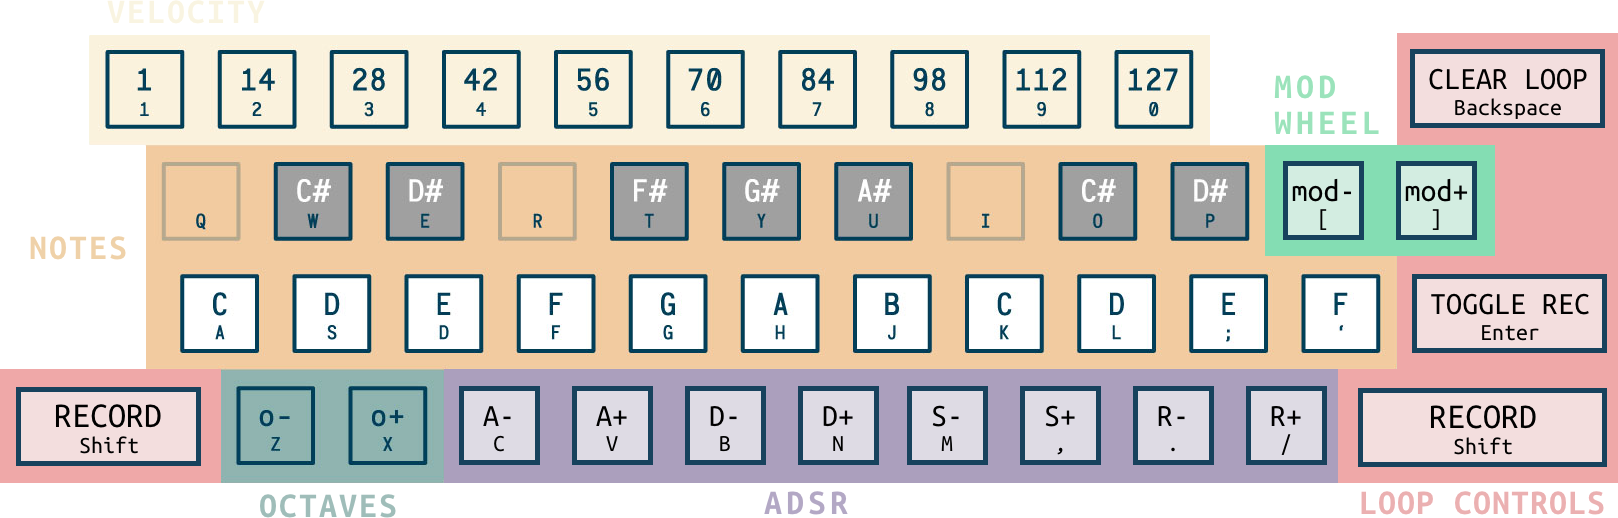
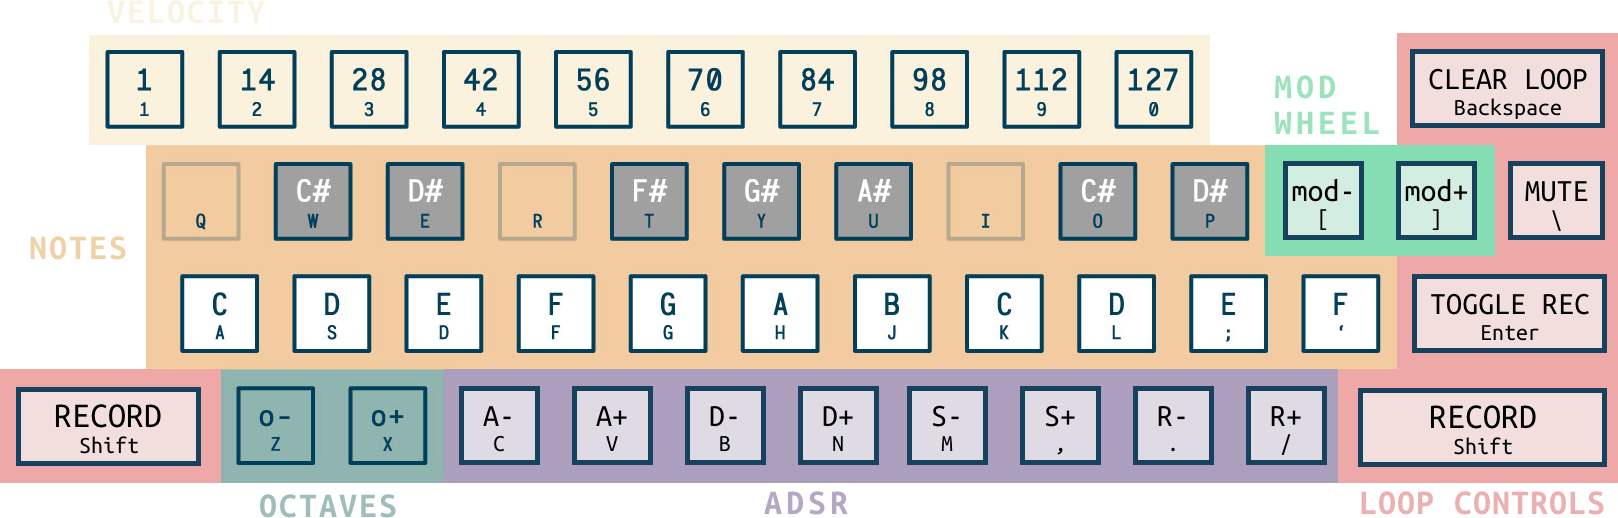
Add key and MIDI binding for record-lock: press <Enter> to toggle recording

Changed region(s): [[0.9271, 0.3089, 1.0, 0.4633]]

diff --git a/client-web/src/app/SketchInputs.ts b/client-web/src/app/SketchInputs.ts
@@ -4,6 +4,17 @@ import { clockUpdateReq, ClockOpts } from './serverApi/serverClock'
 
 const userInputsY = 40
 
+function msToString(ms: number) {
+	if (ms < 0.001) {
+		return `${(ms * 1000).toFixed(1)}µs`
+	} else if (ms < 1) {
+		return `${(ms * 1000).toFixed(0)}µs`
+	} else if (ms < 10) {
+		return `${ms.toFixed(1)}ms`
+	}
+	return `${ms.toFixed(0)}ms`
+}
+
 export class SketchInputs {
 	parent: Sketch
 	pp?: p5
@@ -145,7 +156,6 @@ export class SketchInputs {
 	}
 
 	setupInputsUser = (clientId: number): any => {
-		console.log('[SketchInputs #setupInputsUser] clientId', clientId)
 		const uu = this.parent.user
 		const defaultName = this.nameCustomized ? uu.name : `User ${this.parent.ws.clientId}`
 		if (this.hidden) {
@@ -174,7 +184,7 @@ export class SketchInputs {
 		inName.size(80)
 		inName.position(20, userInputsY)
 		inName.input(() => {
-			console.log('[SketchInputs #inputs.name] Changed:', inName.value())
+			// console.log('[SketchInputs #inputs.name] Changed:', inName.value())
 			this.nameCustomized = true
 			this.parent.updateUser({ name: inName.value() })
 		})
@@ -224,7 +234,6 @@ export class SketchInputs {
 			}
 		}
 		inInst.changed(() => {
-			console.log('[SketchInputs #inputs.instrument] Changed:', inInst.value())
 			this.parent.updateUser({ instrument: inInst.value() })
 		})
 		inInst.elt.onfocus = () => (inInst.focused = true)
@@ -255,7 +264,6 @@ export class SketchInputs {
 		}
 		inMidi.selected(this.parent.user.inputDevice)
 		inMidi.changed(() => {
-			console.log('[SketchInputs #setupInputsMidi] Changed:', inMidi.value())
 			this.parent.updateUser({ inputDevice: inMidi.value() })
 		})
 		inMidi.elt.onfocus = () => (inMidi.focused = true)
@@ -275,7 +283,6 @@ export class SketchInputs {
 		inBPM.position(20, this.pp.height - 40)
 		inBPM.size(300)
 		inBPM.input(() => {
-			// console.log('[SketchInputs #setupInputsBPM] Changed:', inBPM.value())
 			this.clockOpts.bpm = inBPM.value()
 			this.clockOpts.clientId = this.parent.user.clientId
 			this.sendClockUpdate(this.clockOpts)
@@ -329,20 +336,19 @@ export class SketchInputs {
 					break
 				case key === 'bpm':
 					const prec = Math.abs(this.parent.ws.clock.precisionNow)
+					const ping = msToString(this.parent.ws.clock.pingMs)
 					const xp = input.x + input.width
 					pp.textAlign(pp.RIGHT, pp.BOTTOM)
 					if (!this.parent.ws.ready()) {
-						pp.fill(255, 0, 0)
+						pp.fill(255, 50, 50)
 						pp.text(`NO CONNECTION TO SERVER`, xp, yy)
 						pp.fill(255)
-					} else if (prec < 1) {
-						pp.text(`Clock precision: ${(prec * 1000).toFixed(0)}µs`, xp, yy)
-					} else if (prec < 10) {
-						pp.text(`Clock precision: ${prec.toFixed(1)}ms`, xp, yy)
-					} else {
-						pp.fill(255, 0, 0)
-						pp.text(`Clock precision: ${prec.toFixed(0)}ms`, xp, yy)
+					} else if (prec >= 10) {
+						pp.fill(255, 50, 50)
+						pp.text(`Clock precision: ${msToString(prec)}  |  ping: ${ping}`, xp, yy)
 						pp.fill(255)
+					} else {
+						pp.text(`Clock precision: ${msToString(prec)}  |  ping: ${ping}`, xp, yy)
 					}
 					pp.textAlign(pp.LEFT, pp.BOTTOM)
 				// fallthrough

diff --git a/client-web/src/app/Loops.ts b/client-web/src/app/Loops.ts
@@ -1,7 +1,7 @@
 import * as p5 from 'p5'
 import { UserEvent } from './serverApi/serverApi'
 import Sketch from './Sketch'
-import { KEYCODE_SHIFT } from './constants'
+import { KEYCODE_BACKSPACE, KEYCODE_DELETE, KEYCODE_SHIFT, KEYCODE_ENTER, KEYCODE_RETURN } from './constants'
 import { radBig, radSmall, Loop } from './Loop'
 
 type LoopsOpts = {
@@ -18,6 +18,7 @@ export class Loops {
 		loopLen?: any
 		newLoopBtn?: any
 	} = {}
+	recLock = false
 	hidden = false
 	hiddenDial = false
 
@@ -32,11 +33,6 @@ export class Loops {
 		this.activeLoop = this.load()
 	}
 
-	saveAll = () => {
-		this.saveLoopRefs()
-		this.loops.forEach(ll => ll.save())
-		console.log('[Loops #save] Saved all loops to local storage')
-	}
 	saveLoopRefs = () => {
 		const store = this.sketch.localStorage
 		store.setItem('activeLoop', this.activeLoop.id)
@@ -55,6 +51,7 @@ export class Loops {
 			for (const lid of lids) {
 				const loop = new Loop({ id: lid, ...defaultParams })
 				if (loop.loaded) {
+					// loop loaded successfully from local storage, add to loops
 					this.loops.push(loop)
 					if (lid === aid) {
 						activeLoop = loop
@@ -96,7 +93,7 @@ export class Loops {
 		if (!hidden) {
 			activeLoop.isActive = true
 			activeLoop.setRadius(rad)
-			activeLoop.isRecording = pp.keyIsDown(KEYCODE_SHIFT)
+			activeLoop.isRecording = this.isRecording(pp)
 			xx -= rad + 20
 			activeLoop.draw(pp, xx, yy)
 			pp.fill(210).stroke(0).strokeWeight(1)
@@ -225,5 +222,36 @@ export class Loops {
 		if (didHit) {
 			this.saveLoopRefs()
 		}
+	}
+
+	keyPressed = (evt: p5) => {
+		if (evt.keyCode === KEYCODE_BACKSPACE || evt.keyCode === KEYCODE_DELETE) {
+			// Clear events from active loop, or all loops if Shift is being pressed
+			if (evt.keyIsDown(KEYCODE_SHIFT)) {
+				this.clearAll()
+			} else {
+				this.clearActiveLoop()
+			}
+		}
+		if (evt.keyCode === KEYCODE_ENTER || evt.keyCode === KEYCODE_RETURN) {
+			this.recLock = !this.recLock
+			if (!this.recLock) {
+				this.stopRecording()
+			}
+		}
+		if (evt.key === '\\' || evt.key === '|') {
+			this.toggleActiveLoopMute()
+		}
+	}
+
+	keyReleased = (evt: p5) => {
+		if (evt.keyCode === KEYCODE_SHIFT) {
+			// Stopped recording to loop, cleanup any dangling notes
+			this.stopRecording()
+		}
+	}
+
+	isRecording = (pp?: p5): boolean => {
+		return this.recLock || (!!pp && pp.keyIsDown(KEYCODE_SHIFT))
 	}
 }

diff --git a/client-web/src/app/Sketch.ts b/client-web/src/app/Sketch.ts
@@ -20,7 +20,6 @@ import { engine3d, Avatar, Ground, Vec } from 'engine3d'
 import { SketchInputs } from './SketchInputs'
 import { SketchAudioKeys } from './SketchAudioKeys'
 import { Loops } from './Loops'
-import { KEYCODE_ESC, KEYCODE_SHIFT } from './constants'
 
 type Instruments = { [key: string]: Instrument }
 
@@ -253,27 +252,14 @@ export default class Sketch {
 			return
 		}
 		this.avatar.keyPressed(evt)
-		if (evt.keyCode === KEYCODE_ESC) {
-			// ESC pressed, clear loops
-			if (evt.keyIsDown(KEYCODE_SHIFT)) {
-				this.loops.clearAll()
-			} else {
-				this.loops.clearActiveLoop()
-			}
-		}
-		if (evt.key === 'm') {
-			this.loops.toggleActiveLoopMute()
-		}
+		this.loops.keyPressed(evt)
 	}
 	keyReleased = (evt: p5) => {
 		if (this.keyboardInputDisabled()) {
 			return
 		}
 		this.avatar.keyReleased(evt)
-		if (evt.keyCode === KEYCODE_SHIFT) {
-			// Stopped recording to loop, cleanup any dangling notes
-			this.loops.stopRecording()
-		}
+		this.loops.keyReleased(evt)
 	}
 
 	updateUser = (uu: Partial<User>, sendUpdate: boolean = true) => {
@@ -358,6 +344,11 @@ export default class Sketch {
 				case 19: // master mute (local only)
 					Tone.Destination.mute = !evt.value
 					return
+				case 117: // record lock (local only)
+					if (evt.value) {
+						this.loops.recLock = !this.loops.recLock
+					}
+					return
 				case 18:
 				case 78:
 					instName = 'metronome'
@@ -394,8 +385,7 @@ export default class Sketch {
 			midiEvent: evt,
 			timestamp: this.nowMs() + off,
 		}
-		const shiftKeyDown = this.pp && this.pp.keyIsDown(KEYCODE_SHIFT)
-		if (shiftKeyDown) {
+		if (this.loops.isRecording(this.pp)) {
 			this.loops.loopUserEvent(uevt)
 		}
 		this._sendUserEvent(uevt)

diff --git a/client-web/src/app/Loop.ts b/client-web/src/app/Loop.ts
@@ -263,12 +263,12 @@ export class Loop {
 			if (this.recStartedAt === null) {
 				this.recStartedAt = this.headRec
 			}
-			pp.fill(30).stroke(255, 0, 0).strokeWeight(2)
+			pp.fill(30).stroke(255, 0, 0).strokeWeight(4)
 		} else {
 			this.recStartedAt = null
 			pp.fill(30).stroke(0).strokeWeight(2)
 		}
-		pp.circle(this.xx, this.yy, radius * 2)
+		pp.circle(this.xx, this.yy, radius * 2 + (isRecording ? 2 : 0))
 
 		// Draw a line for every beat
 		for (let ii = 0; ii < beats; ii++) {

diff --git a/client-web/src/app/serverApi/WSClock.ts b/client-web/src/app/serverApi/WSClock.ts
@@ -23,6 +23,7 @@ export default class WSClock {
 	syncInitial = 0
 	serverOrigin = 0
 	precisionNow = 0
+	pingMs = 0
 	syncPeriod = SYNC_PERIOD_INITIAL_MS
 	synced = false
 	options: Partial<WSClockOptions>
@@ -72,6 +73,7 @@ export default class WSClock {
 		}
 		this.lastRespAt = this.nowRaw()
 		const dur = this.lastRespAt - this.lastReqAt
+		this.pingMs = dur
 		const mid = dur / 2 + this.lastReqAt
 		const delta = nowMs - mid
 		if (this.correction === 0) {

diff --git a/client-web/src/app/serverApi/WSClient.ts b/client-web/src/app/serverApi/WSClient.ts
@@ -108,7 +108,7 @@ export default class WSClient {
 				break
 			case WS_USERS_ALL:
 				this.users = parseUsersAll(body).filter(uu => !!uu)
-				console.log('[WSClient #onMessage] Received users', this.users)
+				// console.log('[WSClient #onMessage] Received users', this.users)
 				this.options.onUsers(this.users)
 				break
 			case WS_USER_EVENT: {

diff --git a/client-web/src/app/constants.ts b/client-web/src/app/constants.ts
@@ -1,4 +1,8 @@
+export const KEYCODE_BACKSPACE = 8
+export const KEYCODE_DELETE = 46
 export const KEYCODE_SHIFT = 16
 export const KEYCODE_ESC = 27
+export const KEYCODE_ENTER = 13
+export const KEYCODE_RETURN = 3
 
 export const BLACK_KEYS = [1, 3, 6, 8, 10]
